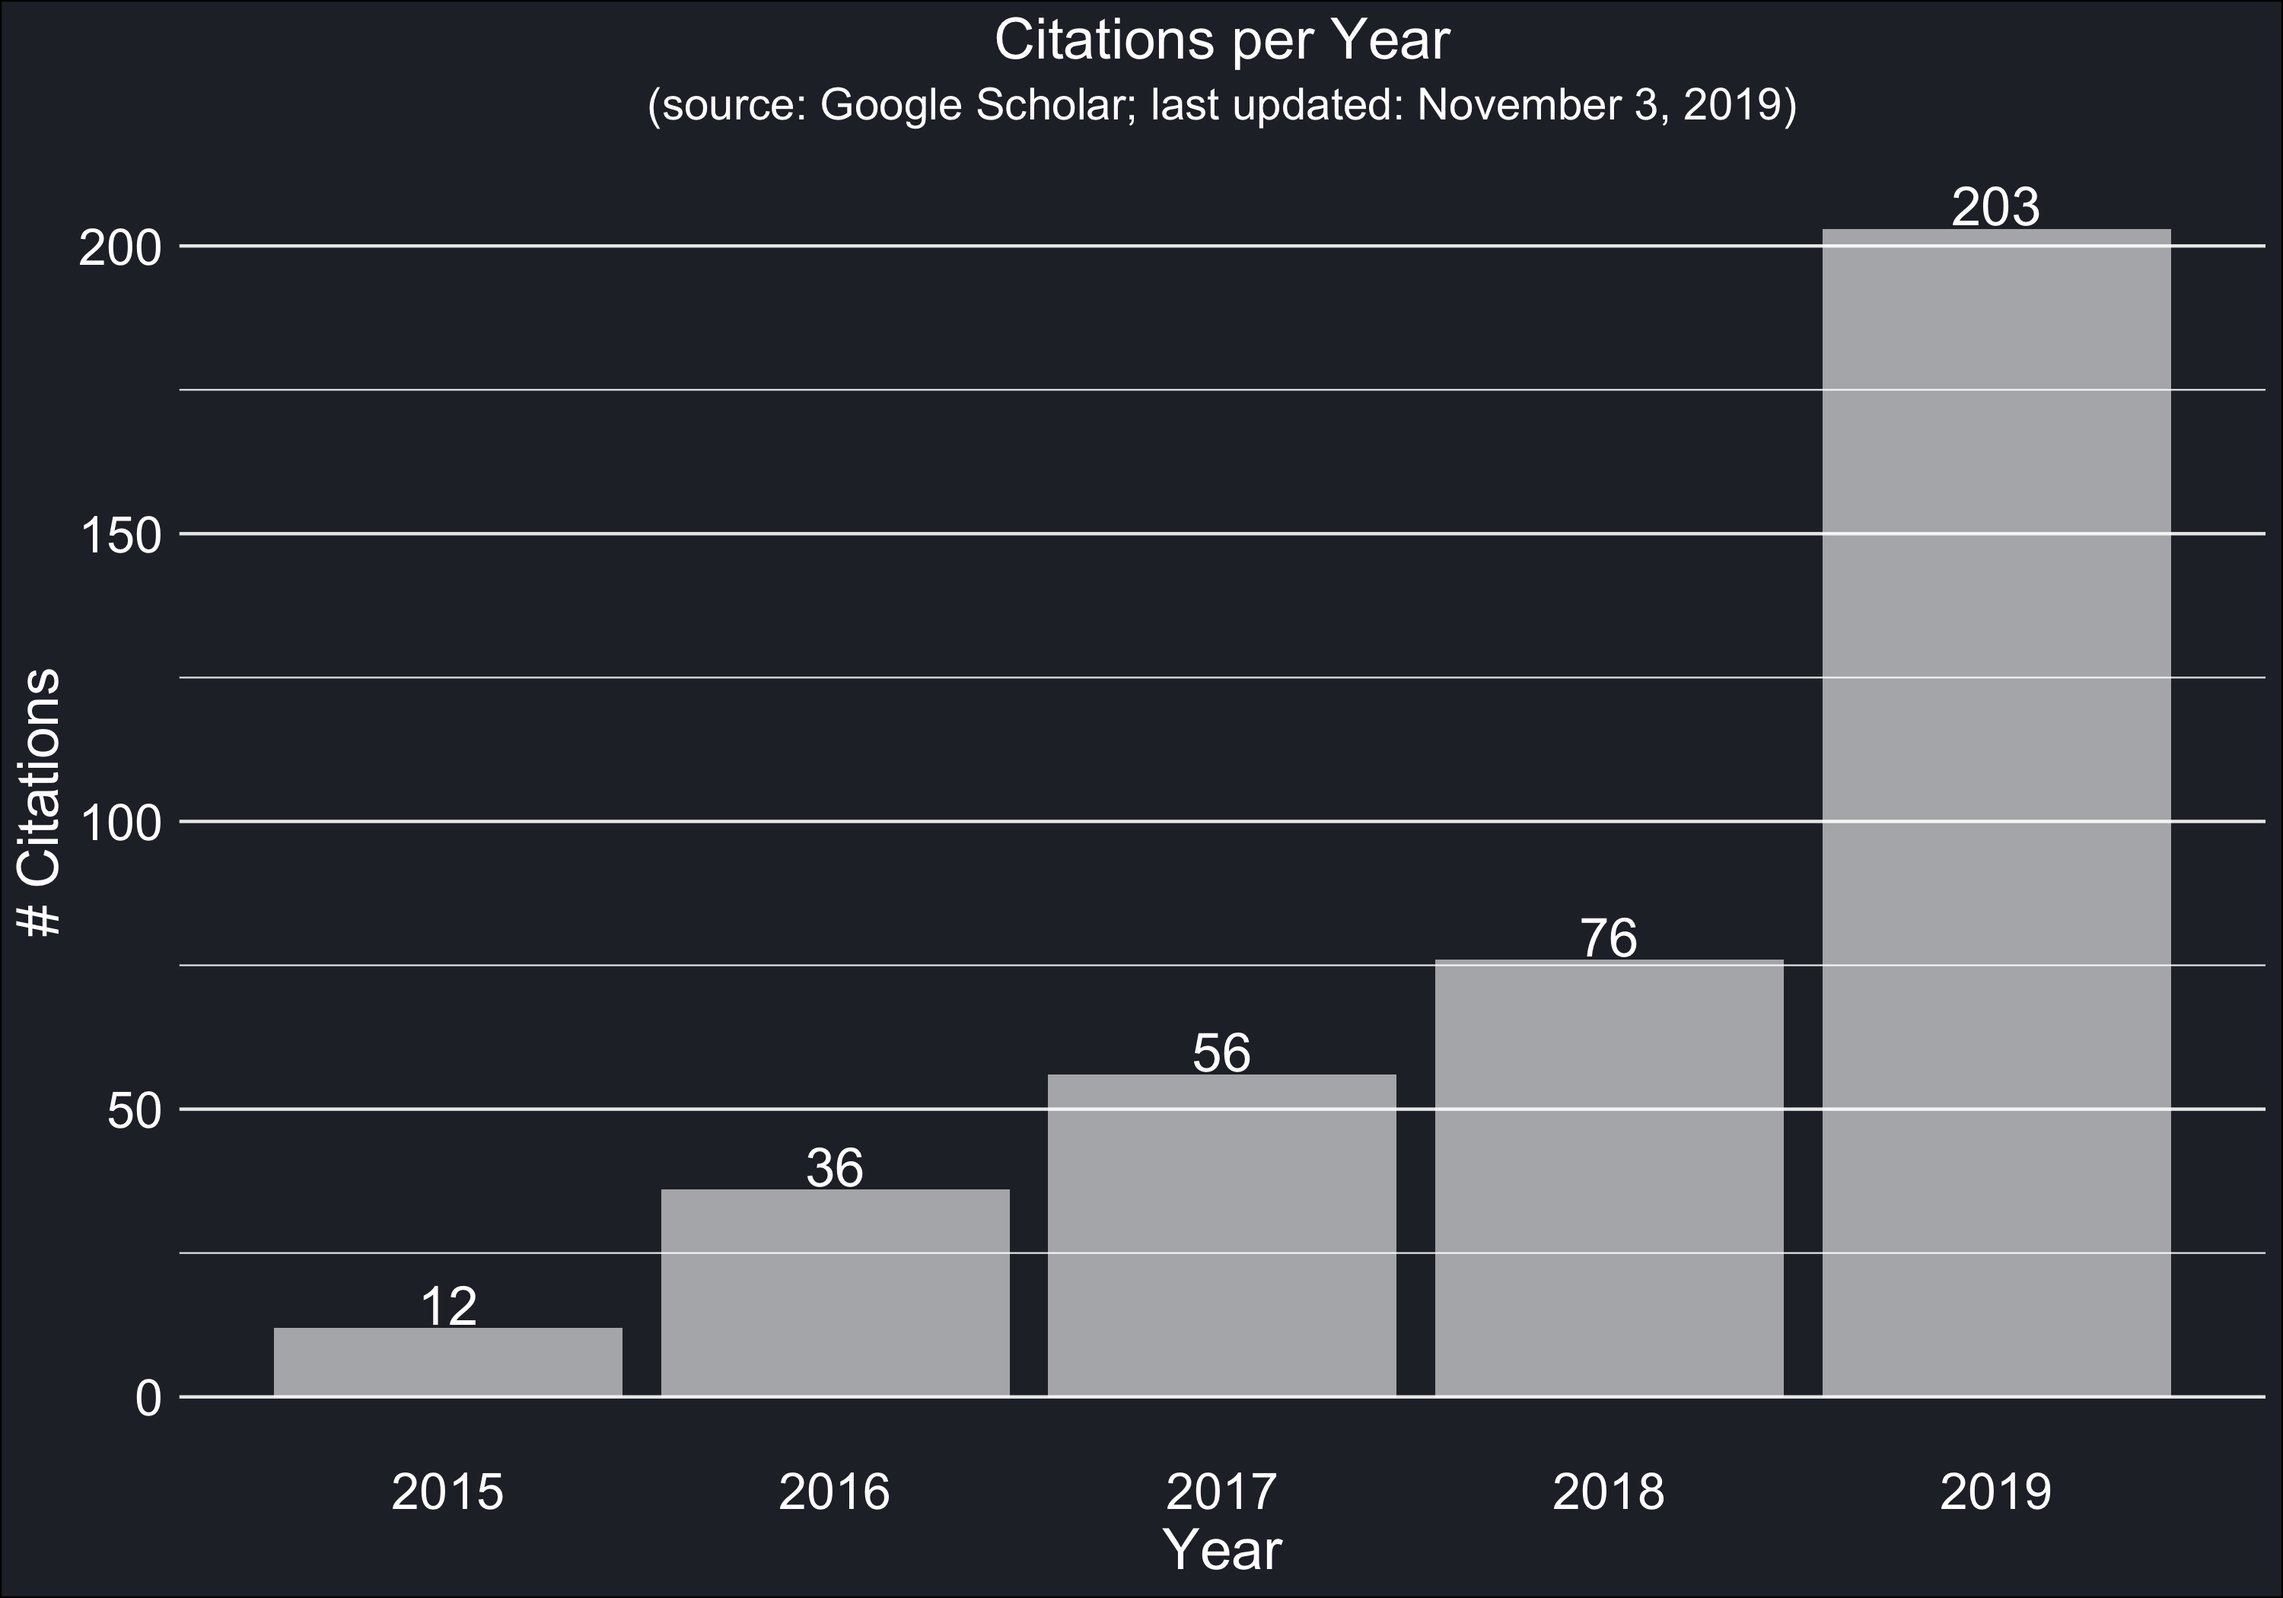
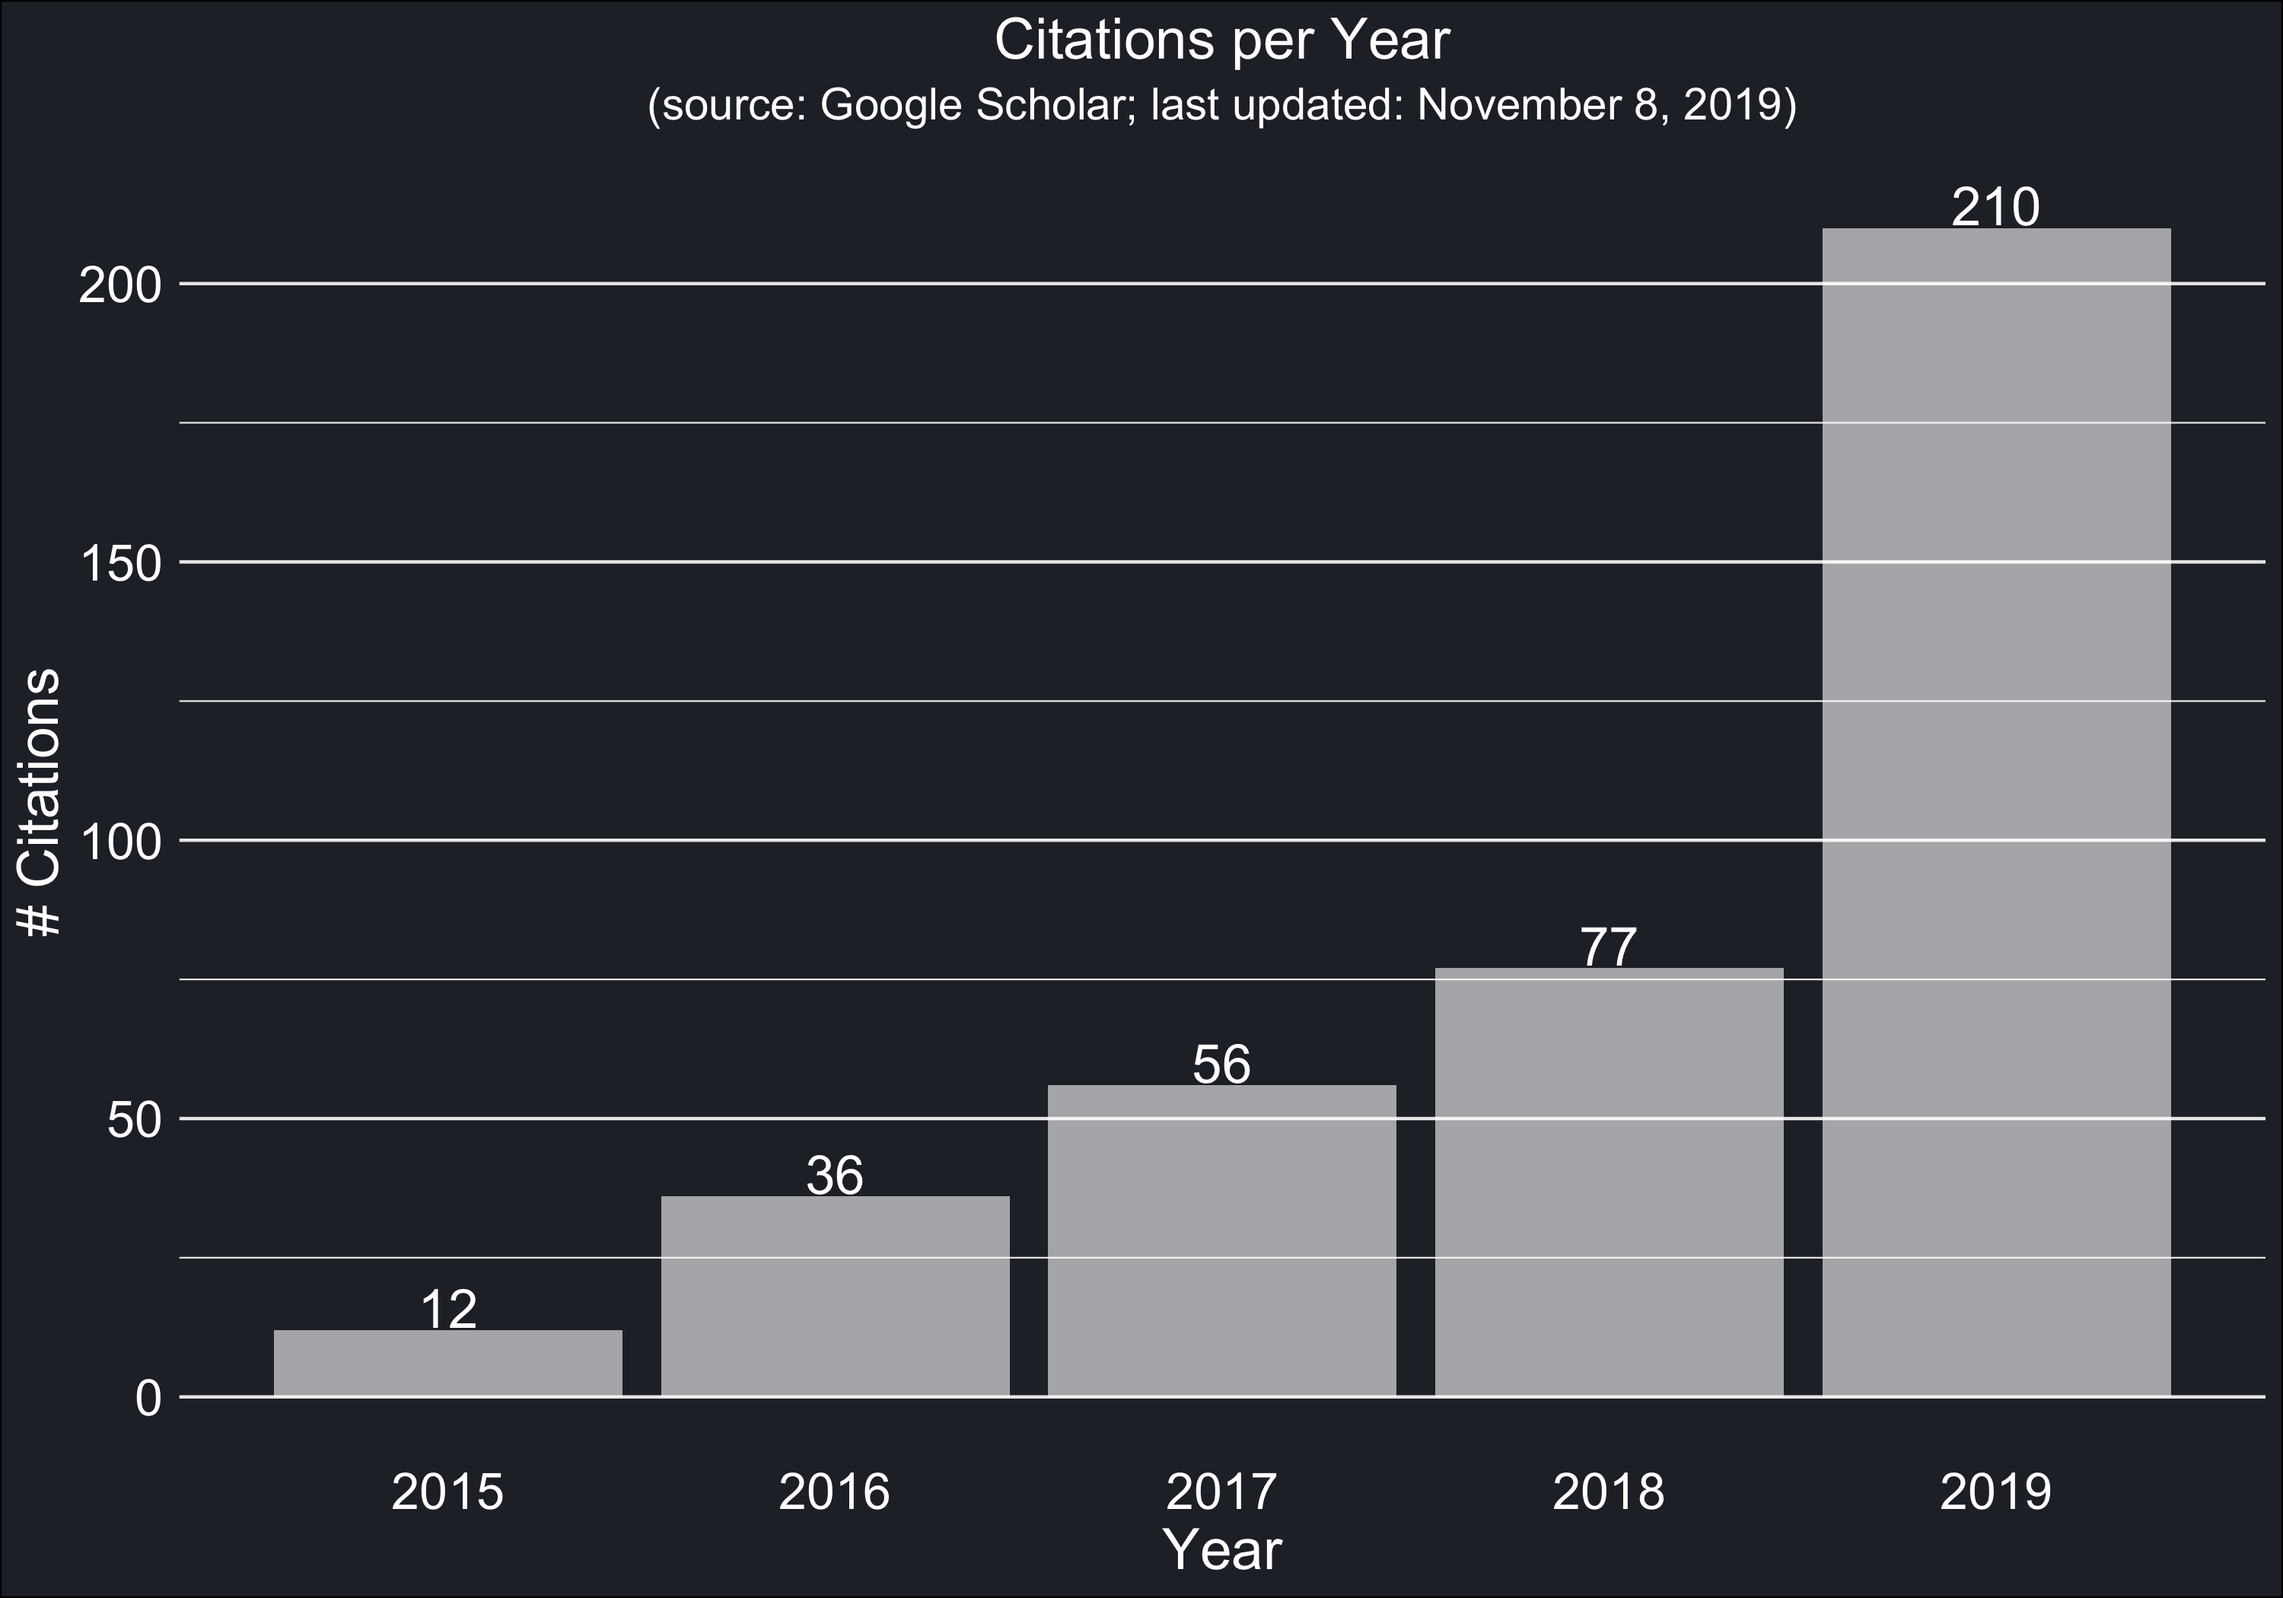
updated references (added ASoC paper and updated ref to OpenML)

diff --git a/_site/publications/index.html b/_site/publications/index.html
@@ -1525,9 +1525,9 @@ NDc6NTIrMDA6MDDajXGaAAAAAElFTkSuQmCC" />
 <p>The citation numbers below are taken from <a href="https://scholar.google.com/citations?user=xQKB_kEAAAAJ&amp;hl=en">Google Scholar</a>  (last updated: November 3, 2019).</p>
 
 <ul>
-  <li>number of citations: 383</li>
+  <li>number of citations: 391</li>
   <li>h-index: 12</li>
-  <li>i10-index: 14</li>
+  <li>i10-index: 15</li>
 </ul>
 
 <p><img src="../assets/images/cites.png" alt="citations" /></p>
@@ -1547,11 +1547,19 @@ NDc6NTIrMDA6MDDajXGaAAAAAElFTkSuQmCC" />
   </thead>
   <tbody>
     <tr>
+      <td>[J08]</td>
+      <td>Bossek, J., <ins><strong>Kerschke, P.</strong></ins> &amp; Trautmann, H. (2019). <em>A Multi-Objective Perspective on Performance Assessment and Automated Selection of Single-Objective Optimization Algorithms</em>. In: Applied Soft Computing (ASOC), Elsevier (in press).<br /> [<a href="https://www.sciencedirect.com/science/article/abs/pii/S1568494619306829">Link</a>] [<a href="https://doi.org/10.1016/j.asoc.2019.105901">DOI</a>] [<a href="/bibliographies/bossek2019performance.bib">BibTeX</a>]</td>
+    </tr>
+    <tr>
       <td>[J07]</td>
-      <td><ins><strong>Kerschke, P.</strong></ins>, Hoos, H. H., Neumann, F. &amp; Trautmann, H. (2019). <em>Automated Algorithm Selection: Survey and Perspectives</em>. In: Evolutionary Computation (ECJ), pp. 3 - 45, MIT Press.<br /> [<a href="https://www.mitpressjournals.org/doi/full/10.1162/evco_a_00242">Link</a>] [<a href="https://doi.org/10.1162/evco_a_00242">DOI</a>] [<a href="/bibliographies/kerschke2019survey.bib">BibTeX</a>]</td>
+      <td>Casalicchio, G., Bossek, J., Lang, M., Kirchhoff, D., <ins><strong>Kerschke, P.</strong></ins>, Hofner, B., Seibold, H., Vanschoren, J. &amp; Bischl, B. (2019). <em>OpenML: An R Package to Connect to the Machine Learning Platform OpenML</em>. In: Computational Statistics, pp. 977 – 991, Springer.<br /> [<a href="https://link.springer.com/article/10.1007/s00180-017-0742-2">Link</a>] [<a href="https://doi.org/10.1007/s00180-017-0742-2">DOI</a>] [<a href="/bibliographies/casalicchio2017openml.bib">BibTeX</a>]</td>
     </tr>
     <tr>
       <td>[J06]</td>
+      <td><ins><strong>Kerschke, P.</strong></ins>, Hoos, H. H., Neumann, F. &amp; Trautmann, H. (2019). <em>Automated Algorithm Selection: Survey and Perspectives</em>. In: Evolutionary Computation (ECJ), pp. 3 - 45, MIT Press.<br /> [<a href="https://www.mitpressjournals.org/doi/full/10.1162/evco_a_00242">Link</a>] [<a href="https://doi.org/10.1162/evco_a_00242">DOI</a>] [<a href="/bibliographies/kerschke2019survey.bib">BibTeX</a>]</td>
+    </tr>
+    <tr>
+      <td>[J05]</td>
       <td><ins><strong>Kerschke, P.</strong></ins> &amp; Trautmann, H. (2019). <em>Automated Algorithm Selection on Continuous Black-Box Problems By Combining Exploratory Landscape Analysis and Machine Learning</em>. In: Evolutionary Computation (ECJ), pp. 99 - 127, MIT Press.<br /> [<a href="https://www.mitpressjournals.org/doi/full/10.1162/evco_a_00236">Link</a>] [<a href="https://doi.org/10.1162/evco_a_00236">DOI</a>] [<a href="/bibliographies/kerschke2019automatedAS.bib">BibTeX</a>]</td>
     </tr>
   </tbody>
@@ -1568,29 +1576,12 @@ NDc6NTIrMDA6MDDajXGaAAAAAElFTkSuQmCC" />
   </thead>
   <tbody>
     <tr>
-      <td>[J05]</td>
+      <td>[J04]</td>
       <td><ins><strong>Kerschke, P.</strong></ins>, Wang, H., Preuss, M., Grimme, C., Deutz, A. H., Trautmann, H. &amp; Emmerich, M. T. M. (2018). <em>Search Dynamics on Multimodal Multi-Objective Problems</em>. In: Evolutionary Computation (ECJ), pp. 1 – 30, MIT Press.<br /> [<a href="https://www.mitpressjournals.org/doi/abs/10.1162/evco_a_00234">Link</a>] [<a href="https://doi.org/10.1162/evco_a_00234">DOI</a>] [<a href="/bibliographies/kerschke2018search.bib">BibTeX</a>]</td>
     </tr>
     <tr>
-      <td>[J04]</td>
-      <td><ins><strong>Kerschke, P.</strong></ins>, Kotthoff, L., Bossek, J., Hoos, H. H. &amp; Trautmann, H. (2018). <em>Leveraging TSP Solver Complementarity through Machine Learning</em>. In: Evolutionary Computation (ECJ), pp. 597 – 620, MIT Press.<br /> [<a href="https://www.mitpressjournals.org/doi/full/10.1162/evco_a_00215">Link</a>] [<a href="https://doi.org/10.1162/evco_a_00215">DOI</a>] [<a href="/bibliographies/kerschke2018leveraging.bib">BibTeX</a>]</td>
-    </tr>
-  </tbody>
-</table>
-
-<h4 id="2017">2017</h4>
-
-<table>
-  <thead>
-    <tr>
-      <th>#</th>
-      <th>Publication</th>
-    </tr>
-  </thead>
-  <tbody>
-    <tr>
       <td>[J03]</td>
-      <td>Casalicchio, G., Bossek, J., Lang, M., Kirchhoff, D., <ins><strong>Kerschke, P.</strong></ins>, Hofner, B., Seibold, H., Vanschoren, J. &amp; Bischl, B. (2017). <em>OpenML: An R Package to Connect to the Machine Learning Platform OpenML</em>. In: Computational Statistics, pp. 1 – 15, Springer.<br /> [<a href="https://link.springer.com/article/10.1007/s00180-017-0742-2">Link</a>] [<a href="https://doi.org/10.1007/s00180-017-0742-2">DOI</a>] [<a href="/bibliographies/casalicchio2017openml.bib">BibTeX</a>]</td>
+      <td><ins><strong>Kerschke, P.</strong></ins>, Kotthoff, L., Bossek, J., Hoos, H. H. &amp; Trautmann, H. (2018). <em>Leveraging TSP Solver Complementarity through Machine Learning</em>. In: Evolutionary Computation (ECJ), pp. 597 – 620, MIT Press.<br /> [<a href="https://www.mitpressjournals.org/doi/full/10.1162/evco_a_00215">Link</a>] [<a href="https://doi.org/10.1162/evco_a_00215">DOI</a>] [<a href="/bibliographies/kerschke2018leveraging.bib">BibTeX</a>]</td>
     </tr>
   </tbody>
 </table>
@@ -1677,7 +1668,7 @@ NDc6NTIrMDA6MDDajXGaAAAAAElFTkSuQmCC" />
   </tbody>
 </table>
 
-<h4 id="2017-1">2017</h4>
+<h4 id="2017">2017</h4>
 
 <table>
   <thead>

diff --git a/publications.md b/publications.md
@@ -11,9 +11,9 @@ paginate: true
 
 The citation numbers below are taken from [Google Scholar](https://scholar.google.com/citations?user=xQKB_kEAAAAJ&hl=en)  (last updated: November 3, 2019).
 
-* number of citations: 383
+* number of citations: 391
 * h-index: 12
-* i10-index: 14
+* i10-index: 15
 
 ![citations](../assets/images/cites.png)
 
@@ -26,22 +26,18 @@ For more recent citation numbers, please see my [Google Scholar page](https://sc
 
 | # | Publication |
 |-----|-----|
-[J07] | <ins>**Kerschke, P.**</ins>, Hoos, H. H., Neumann, F. & Trautmann, H. (2019). *Automated Algorithm Selection: Survey and Perspectives*. In: Evolutionary Computation (ECJ), pp. 3 - 45, MIT Press.<br/> [[Link](https://www.mitpressjournals.org/doi/full/10.1162/evco_a_00242)] [[DOI](https://doi.org/10.1162/evco_a_00242)] [[BibTeX](/bibliographies/kerschke2019survey.bib)] |
-[J06] | <ins>**Kerschke, P.**</ins> & Trautmann, H. (2019). *Automated Algorithm Selection on Continuous Black-Box Problems By Combining Exploratory Landscape Analysis and Machine Learning*. In: Evolutionary Computation (ECJ), pp. 99 - 127, MIT Press.<br/> [[Link](https://www.mitpressjournals.org/doi/full/10.1162/evco_a_00236)] [[DOI](https://doi.org/10.1162/evco_a_00236)] [[BibTeX](/bibliographies/kerschke2019automatedAS.bib)] |
+[J08] | Bossek, J., <ins>**Kerschke, P.**</ins> & Trautmann, H. (2019). *A Multi-Objective Perspective on Performance Assessment and Automated Selection of Single-Objective Optimization Algorithms*. In: Applied Soft Computing (ASOC), Elsevier (in press).<br/> [[Link](https://www.sciencedirect.com/science/article/abs/pii/S1568494619306829)] [[DOI](https://doi.org/10.1016/j.asoc.2019.105901)] [[BibTeX](/bibliographies/bossek2019performance.bib)] |
+[J07] | Casalicchio, G., Bossek, J., Lang, M., Kirchhoff, D., <ins>**Kerschke, P.**</ins>, Hofner, B., Seibold, H., Vanschoren, J. & Bischl, B. (2019). *OpenML: An R Package to Connect to the Machine Learning Platform OpenML*. In: Computational Statistics, pp. 977 – 991, Springer.<br/> [[Link](https://link.springer.com/article/10.1007/s00180-017-0742-2)] [[DOI](https://doi.org/10.1007/s00180-017-0742-2)] [[BibTeX](/bibliographies/casalicchio2017openml.bib)] |
+[J06] | <ins>**Kerschke, P.**</ins>, Hoos, H. H., Neumann, F. & Trautmann, H. (2019). *Automated Algorithm Selection: Survey and Perspectives*. In: Evolutionary Computation (ECJ), pp. 3 - 45, MIT Press.<br/> [[Link](https://www.mitpressjournals.org/doi/full/10.1162/evco_a_00242)] [[DOI](https://doi.org/10.1162/evco_a_00242)] [[BibTeX](/bibliographies/kerschke2019survey.bib)] |
+[J05] | <ins>**Kerschke, P.**</ins> & Trautmann, H. (2019). *Automated Algorithm Selection on Continuous Black-Box Problems By Combining Exploratory Landscape Analysis and Machine Learning*. In: Evolutionary Computation (ECJ), pp. 99 - 127, MIT Press.<br/> [[Link](https://www.mitpressjournals.org/doi/full/10.1162/evco_a_00236)] [[DOI](https://doi.org/10.1162/evco_a_00236)] [[BibTeX](/bibliographies/kerschke2019automatedAS.bib)] |
 
 #### 2018 
 
 | # | Publication |
 |-----|-----|
-[J05] | <ins>**Kerschke, P.**</ins>, Wang, H., Preuss, M., Grimme, C., Deutz, A. H., Trautmann, H. & Emmerich, M. T. M. (2018). *Search Dynamics on Multimodal Multi-Objective Problems*. In: Evolutionary Computation (ECJ), pp. 1 – 30, MIT Press.<br/> [[Link](https://www.mitpressjournals.org/doi/abs/10.1162/evco_a_00234)] [[DOI](https://doi.org/10.1162/evco_a_00234)] [[BibTeX](/bibliographies/kerschke2018search.bib)] |
-[J04] | <ins>**Kerschke, P.**</ins>, Kotthoff, L., Bossek, J., Hoos, H. H. & Trautmann, H. (2018). *Leveraging TSP Solver Complementarity through Machine Learning*. In: Evolutionary Computation (ECJ), pp. 597 – 620, MIT Press.<br/> [[Link](https://www.mitpressjournals.org/doi/full/10.1162/evco_a_00215)] [[DOI](https://doi.org/10.1162/evco_a_00215)] [[BibTeX](/bibliographies/kerschke2018leveraging.bib)] |
+[J04] | <ins>**Kerschke, P.**</ins>, Wang, H., Preuss, M., Grimme, C., Deutz, A. H., Trautmann, H. & Emmerich, M. T. M. (2018). *Search Dynamics on Multimodal Multi-Objective Problems*. In: Evolutionary Computation (ECJ), pp. 1 – 30, MIT Press.<br/> [[Link](https://www.mitpressjournals.org/doi/abs/10.1162/evco_a_00234)] [[DOI](https://doi.org/10.1162/evco_a_00234)] [[BibTeX](/bibliographies/kerschke2018search.bib)] |
+[J03] | <ins>**Kerschke, P.**</ins>, Kotthoff, L., Bossek, J., Hoos, H. H. & Trautmann, H. (2018). *Leveraging TSP Solver Complementarity through Machine Learning*. In: Evolutionary Computation (ECJ), pp. 597 – 620, MIT Press.<br/> [[Link](https://www.mitpressjournals.org/doi/full/10.1162/evco_a_00215)] [[DOI](https://doi.org/10.1162/evco_a_00215)] [[BibTeX](/bibliographies/kerschke2018leveraging.bib)] |
 
-
-#### 2017
-
-| # | Publication |
-|-----|-----|
-[J03] | Casalicchio, G., Bossek, J., Lang, M., Kirchhoff, D., <ins>**Kerschke, P.**</ins>, Hofner, B., Seibold, H., Vanschoren, J. & Bischl, B. (2017). *OpenML: An R Package to Connect to the Machine Learning Platform OpenML*. In: Computational Statistics, pp. 1 – 15, Springer.<br/> [[Link](https://link.springer.com/article/10.1007/s00180-017-0742-2)] [[DOI](https://doi.org/10.1007/s00180-017-0742-2)] [[BibTeX](/bibliographies/casalicchio2017openml.bib)] |
 
 #### 2016
 
